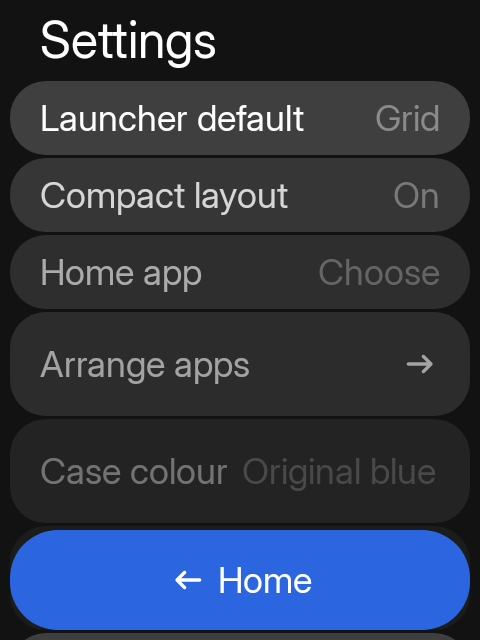
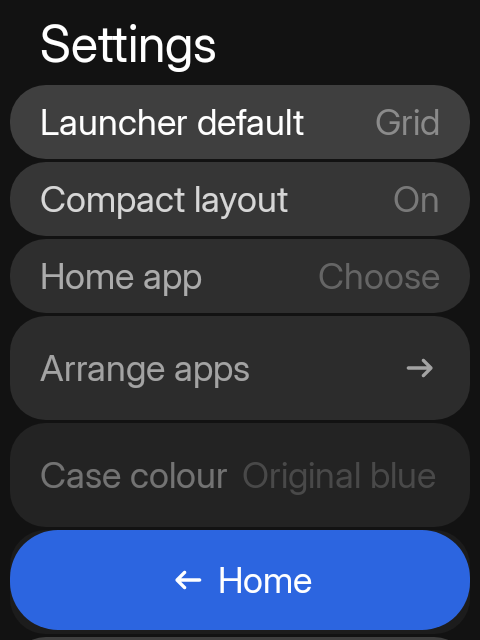
fix(compact): give the header a small top inset
Keep the title off the top edge: 4 dp above the 61 dp line (header 65), so the body still starts 10 dp higher than the original compact chrome. Refresh the compact screenshots and the body-shift expectation.

diff --git a/sidekit/src/main/java/hrln/interactive/sidekit/design/theme/SidekitDimens.kt b/sidekit/src/main/java/hrln/interactive/sidekit/design/theme/SidekitDimens.kt
@@ -36,14 +36,14 @@ data class SidekitSpacing(
 ) {
     companion object {
         /**
-         * The measured Figma sizes, except the top and bottom chrome: the header is exactly one
-         * title line (61) with no inset above it (28 less than the mock) and the action bar is 12
+         * The measured Figma sizes, except the top and bottom chrome: the header is one title
+         * line (61) with a 4 dp inset above it (24 less than the mock) and the action bar is 12
          * shorter. Slightly tighter insets buy body space on the 480 x 640 display without
          * touching the type scale. Chosen from Settings → Compact layout.
          */
         val Compact: SidekitSpacing = SidekitSpacing(
-            headerPaddingTop = 0.dp,
-            headerHeight = 61.dp,
+            headerPaddingTop = 4.dp,
+            headerHeight = 65.dp,
             actionBarHeight = 100.dp
         )
     }

diff --git a/app/src/test/java/hrln/interactive/sidekit/apps/settings/SettingsUiTest.kt b/app/src/test/java/hrln/interactive/sidekit/apps/settings/SettingsUiTest.kt
@@ -101,8 +101,8 @@ class SettingsUiTest {
         compose.mainClock.advanceTimeBy(1000)
         compose.onRoot().captureRoboImage("screenshots/settings_compact.png")
         val compactTop = compose.onNodeWithText("Launcher default").getUnclippedBoundsInRoot().top
-        // Header 103 -> 61, so the body starts 42 dp higher (1 dp == 1 px on this canvas).
-        assertEquals(42f, (bodyTop - compactTop).value, 1f)
+        // Header 103 -> 65, so the body starts 38 dp higher (1 dp == 1 px on this canvas).
+        assertEquals(38f, (bodyTop - compactTop).value, 1f)
     }
 
     @Test fun `system settings live on their own page`() {

diff --git a/app/src/test/java/hrln/interactive/sidekit/ui/ScreenshotTest.kt b/app/src/test/java/hrln/interactive/sidekit/ui/ScreenshotTest.kt
@@ -53,7 +53,7 @@ class ScreenshotTest {
 
     @Test fun launcherList() = shoot("launcher_list_36-2", launcher(LauncherUiState(layout = LauncherLayout.List)))
 
-    /** The same frame with Settings → Compact layout on: header 61 instead of 103, bar 100 instead of 112. */
+    /** The same frame with Settings → Compact layout on: header 65 instead of 103, bar 100 instead of 112. */
     @Test fun launcherGridCompact() {
         compose.setContent {
             hrln.interactive.sidekit.design.theme.SidekitTheme(
